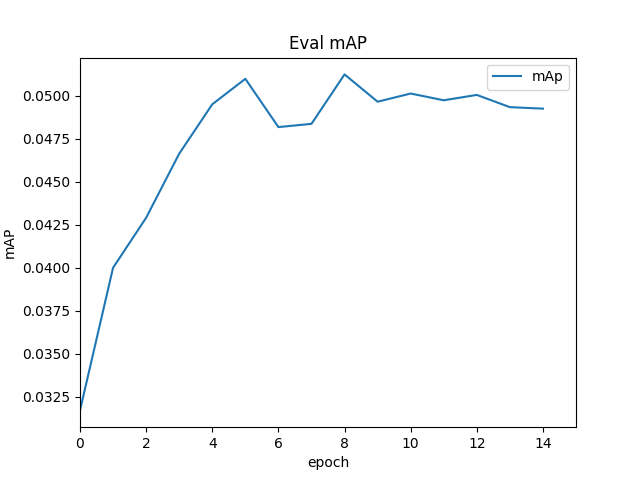
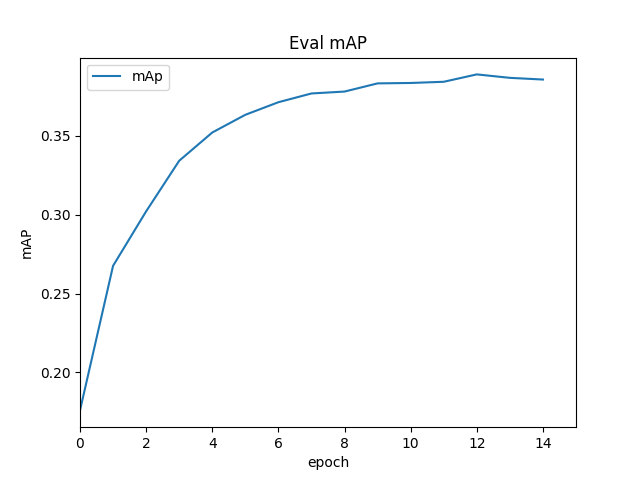
第二次提交：修改代码后（访问数据集方式），取得正常结果

diff --git a/my_dataset.py b/my_dataset.py
@@ -50,7 +50,7 @@ class VOCDataSet(Dataset):
         with open(xml_path,encoding='utf-8') as fid:
             xml_str = fid.read()
         xml = etree.fromstring(xml_str.encode('utf-8'))
-        data = self.parse_xml_to_dict(xml)["annotation"]
+        data = self.parse_xml_to_dict(xml)["annotation"] # 读取的标注数据
 
         img_path = os.path.join(self.img_root, "{0}.jpg".format(data["filename"]) )
         image = Image.open(img_path)
@@ -73,7 +73,8 @@ class VOCDataSet(Dataset):
                 continue
             
             boxes.append([xmin, ymin, xmax, ymax])
-            labels.append(self.class_dict[obj["name"]]) # 这里的name是目标的类别1 2 3 4等
+            # labels.append(self.class_dict[obj["name"]]) # 这里的name是目标的类别1 2 3 4等
+            labels.append(int(obj["name"])) # xml文件中的obj["name"]即为类别1，2，3，4；直接用其作为label
             if "difficult" in obj:
                 iscrowd.append(int(obj["difficult"]))
             else:
@@ -94,9 +95,10 @@ class VOCDataSet(Dataset):
         targets = torch.as_tensor(targets)
         # targets: tensor([0, 1, 2, 3])
         """
-        le = preprocessing.LabelEncoder()
-        targets = le.fit_transform(labels)
-        labels = torch.as_tensor(targets)   # 将字符串列表转换为张量
+        # le = preprocessing.LabelEncoder()
+        # targets = le.fit_transform(labels)
+        # labels = torch.as_tensor(targets)   # 将字符串列表转换为张量
+        labels = torch.as_tensor(labels, dtype=torch.int64)
 
         iscrowd = torch.as_tensor(iscrowd, dtype=torch.int64)
         image_id = torch.tensor([idx])
@@ -104,7 +106,7 @@ class VOCDataSet(Dataset):
 
         target = {}
         target["boxes"] = boxes
-        target["labels"] = labels
+        target["labels"] = labels  # target[label]为类别1，2，3，4
         target["image_id"] = image_id
         target["area"] = area
         target["iscrowd"] = iscrowd
@@ -179,15 +181,18 @@ class VOCDataSet(Dataset):
             ymin = float(obj["bndbox"]["ymin"])
             ymax = float(obj["bndbox"]["ymax"])
             boxes.append([xmin, ymin, xmax, ymax])
-            labels.append(self.class_dict[obj["name"]])
+
+            # labels.append(self.class_dict[obj["name"]])
+            labels.append(int(obj["name"]))
             iscrowd.append(int(obj["difficult"]))
 
         # convert everything into a torch.Tensor
         boxes = torch.as_tensor(boxes, dtype=torch.float32)
-        le = preprocessing.LabelEncoder()
-        targets = le.fit_transform(labels)
-        labels = torch.as_tensor(targets)  # 将字符串列表转换为张量
-        #labels = torch.as_tensor(labels, dtype=torch.int64)
+        # le = preprocessing.LabelEncoder()
+        # targets = le.fit_transform(labels)
+        # labels = torch.as_tensor(targets)  # 将字符串列表转换为张量
+        labels = torch.as_tensor(labels, dtype=torch.int64)
+
         iscrowd = torch.as_tensor(iscrowd, dtype=torch.int64)
         image_id = torch.tensor([idx])
         area = (boxes[:, 3] - boxes[:, 1]) * (boxes[:, 2] - boxes[:, 0])
@@ -273,6 +278,84 @@ class VOCDataSet(Dataset):
 	"Plutella xylostella": 14,
    "Melahotus": 37
 }   
+
+{
+    "1":"Rice planthopper",
+    "15":"Spodoptera cabbage",
+    "2":"Rice Leaf Roller",
+    "16":"Scotogramma trifolii Rottemberg",
+    "3": "Chilo suppressalis",
+    "24": "Yellow tiger",
+    "5": "Armyworm",
+    "25": "Land tiger" ,
+	"6": "Bollworm",
+    "28": "Eight-character tiger",
+	"7": "Meadow borer",
+    "29": "Holotrichia oblita",
+	"8": "Athetis lepigone",
+    "31": "Holotrichia parallela",
+	"10": "Spodoptera litura",
+    "32": "Anomala corpulenta",
+    "11": "Spodoptera exigua",
+    "34": "Gryllotalpa orientalis",
+	"12": "Stem borer",
+    "35": "Nematode trench",
+	"13": "Little Gecko",
+    "36": "Agriotes fuscicollis Miwa",
+	"14": "Plutella xylostella",
+    "37": "Melahotus"
+}
+
+{
+    "aeroplane": 1,
+    "bicycle": 2,
+    "bird": 3,
+    "boat": 4,
+    "bottle": 5,
+    "bus": 6,
+    "car": 7,
+    "cat": 8,
+    "chair": 9,
+    "cow": 10,
+    "diningtable": 11,
+    "dog": 12,
+    "horse": 13,
+    "motorbike": 14,
+    "person": 15,
+    "pottedplant": 16,
+    "sheep": 17,
+    "sofa": 18,
+    "train": 19,
+    "tvmonitor": 20
+}
+
+{
+    "Rice planthopper": 1,
+    "Spodoptera cabbage",15,
+    "Rice Leaf Roller":2,
+    "Scotogramma trifolii Rottemberg":16,
+    "Chilo suppressalis":3,
+    "Yellow tiger":24 ,
+     "Armyworm":5,
+    "Land tiger":25,
+	"Bollworm":6,
+    "Eight-character tiger":28,
+	"Meadow borer":7,
+    "Holotrichia oblita":29,
+	"Athetis lepigone":8,
+    "Holotrichia parallela":31,
+	"Spodoptera litura":10,
+    "Anomala corpulenta":32,
+    "Spodoptera exigua":11,
+    "Gryllotalpa orientalis":34,
+	"Stem borer":12,
+    "Nematode trench":35,
+	"Little Gecko":13,
+    "Agriotes fuscicollis Miwa":36,
+	"Plutella xylostella":14,
+    "Melahotus":37 
+}
+
  
 
 """

diff --git a/validation.py b/validation.py
@@ -35,8 +35,11 @@ def summarize(self, catId=None):
         mind = [i for i, mDet in enumerate(p.maxDets) if mDet == maxDets]
 
         if ap == 1:
-            # dimension of precision: [TxRxKxAxM]
+            # dimension of precision: [TxRxKxAxM] 如何增加k的长度[10,101,24,4,3]-->[10,101,38,4,3]
             s = self.eval['precision']
+            # print(s.shape)
+            s.resize((10,101,38,4,3),refcheck=False)
+            # print(s.shape)
             # IoU
             if iouThr is not None:
                 t = np.where(iouThr == p.iouThrs)[0]
@@ -48,8 +51,11 @@ def summarize(self, catId=None):
                 s = s[:, :, :, aind, mind]
 
         else:
-            # dimension of recall: [TxKxAxM]
+            # dimension of recall: [TxKxAxM] 如何增加k的长度[10,24,4,3]-->[10,38,4,3]
             s = self.eval['recall']
+            # print(s.shape)
+            s.resize((10, 38, 4, 3), refcheck=False)
+            # print(s.shape)
             if iouThr is not None:
                 t = np.where(iouThr == p.iouThrs)[0]
                 s = s[t]
@@ -103,8 +109,8 @@ def main(parser_data):
     json_file = open(label_json_path, 'r')
     class_dict = json.load(json_file)
     json_file.close()
-    # category_index = {v: k for k, v in class_dict.items()} # k 序号 v 名称
-    category_index = {k: v for k, v in class_dict.items()} # k 序号 v 名称
+    category_index = {v: k for k, v in class_dict.items()} # v 序号 k 名称
+    # category_index = {k: v for k, v in class_dict.items()} # k 序号 v 名称
     print(category_index)
 
     VOC_root = parser_data.data_path
@@ -170,12 +176,12 @@ def main(parser_data):
 
     # calculate voc info for every classes(IoU=0.5)
     voc_map_info_list = []
-    # for i in range(len(category_index)):
-    #    stats, _ = summarize(coco_eval, catId=i)
-    #    # voc_map_info_list.append(" {:15}: {}".format(category_index[i + 1], stats[1]))
-    #    voc_map_info_list.append(" {:15}: {}".format(category_index[i + 1], stats[1]))
 
-    for k,v in category_index.items():
+    # for i in range(len(category_index)):
+    #     stats, _ = summarize(coco_eval, catId=i)
+    #     voc_map_info_list.append(" {:15}: {}".format(category_index[i + 1], stats[1]))
+
+    for k,v in category_index.items(): # k 序号 v 名称
         # stats, _ = summarize(coco_eval, catId=int(k))
         # voc_map_info_list.append(" {:15}: {}".format(category_index[i + 1], stats[1]))
         stats, _ = summarize(coco_eval, catId=k)
@@ -203,8 +209,8 @@ if __name__ == "__main__":
     # 使用设备类型
     parser.add_argument('--device', default='cuda', help='device')
 
-    # 检测目标类别数
-    parser.add_argument('--num-classes', type=int, default='24', help='number of classes')
+    # 检测目标类别数 检测目标类别数(不包含背景) 24类害虫，但index到了37
+    parser.add_argument('--num-classes', type=int, default='37', help='number of classes')
 
     # 数据集的根目录(VOCdevkit)
     parser.add_argument('--data-path', default='./', help='dataset root')

diff --git a/network_files/faster_rcnn_framework.py b/network_files/faster_rcnn_framework.py
@@ -252,7 +252,8 @@ class FasterRCNN(FasterRCNNBase):
                  rpn_anchor_generator=None, rpn_head=None,
                  rpn_pre_nms_top_n_train=2000, rpn_pre_nms_top_n_test=1000,    # rpn中在nms处理前保留的proposal数(根据score)
                  rpn_post_nms_top_n_train=2000, rpn_post_nms_top_n_test=1000,  # rpn中在nms处理后保留的proposal数
-                 rpn_nms_thresh=0.7,  # rpn中进行nms处理时使用的iou阈值
+                 rpn_nms_thresh=0.5,  # rpn中进行nms处理时使用的iou阈值 小目标检测可以适当调低阈值，这里将0.7改为0.5
+
                  rpn_fg_iou_thresh=0.7, rpn_bg_iou_thresh=0.3,  # rpn计算损失时，采集正负样本设置的阈值
                  rpn_batch_size_per_image=256, rpn_positive_fraction=0.5,  # rpn计算损失时采样的样本数，以及正样本占总样本的比例
                  rpn_score_thresh=0.0,

diff --git a/train_res50_fpn.py b/train_res50_fpn.py
@@ -179,8 +179,8 @@ if __name__ == "__main__":
     parser.add_argument('--device', default='cuda:0', help='device')
     # 训练数据集的根目录(VOCdevkit)
     parser.add_argument('--data-path', default='./', help='dataset')
-    # 检测目标类别数(不包含背景)
-    parser.add_argument('--num-classes', default=24, type=int, help='num_classes')
+    # 检测目标类别数(不包含背景) 24类害虫，但index到了37
+    parser.add_argument('--num-classes', default=37, type=int, help='num_classes')
     # 文件保存地址
     parser.add_argument('--output-dir', default='./save_weights', help='path where to save')
     # 若需要接着上次训练，则指定上次训练保存权重文件地址

diff --git a/train_utils/coco_utils.py b/train_utils/coco_utils.py
@@ -13,7 +13,7 @@ def convert_to_coco_api(ds):
     for img_idx in range(len(ds)):
         # find better way to get target
         hw, targets = ds.coco_index(img_idx)
-        image_id = targets["image_id"].item()
+        image_id = targets["image_id"].item() #idx=img_idx索引 image_id = torch.tensor([idx]) target["image_id"] = image_id
         img_dict = {}
         img_dict['id'] = image_id
         img_dict['height'] = hw[0]

diff --git a/test1.py b/test1.py
@@ -1,0 +1,16 @@
+import numpy as np
+
+if __name__ == '__main__':
+    s = -np.ones((1,1,5,1,1))
+    print(s)
+    print(s.shape)
+    print(s)
+    s.resize(1,1,2,1,1)
+
+    print("**********\n")
+    print(s)
+    print(s[0].shape)
+    print(s[0][0].shape)
+    # s[0].reshape(1,1,1,1,1)
+    # s = s.reshape((1,1,1,1,1))
+    # print(s)

diff --git a/predict.py b/predict.py
@@ -49,7 +49,7 @@ def main():
     print("using {} device.".format(device))
 
     # create model
-    model = create_model(num_classes=25) # 24类+背景
+    model = create_model(num_classes=38) # 24类+背景
 
     # load train weights
     train_weights = "./save_weights/resNetFpn-model-14.pth"

diff --git a/network_files/boxes.py b/network_files/boxes.py
@@ -37,6 +37,7 @@ def nms(boxes, scores, iou_threshold):
 
 def batched_nms(boxes, scores, idxs, iou_threshold):
     # type: (Tensor, Tensor, Tensor, float) -> Tensor
+
     """
     Performs non-maximum suppression in a batched fashion.
 
